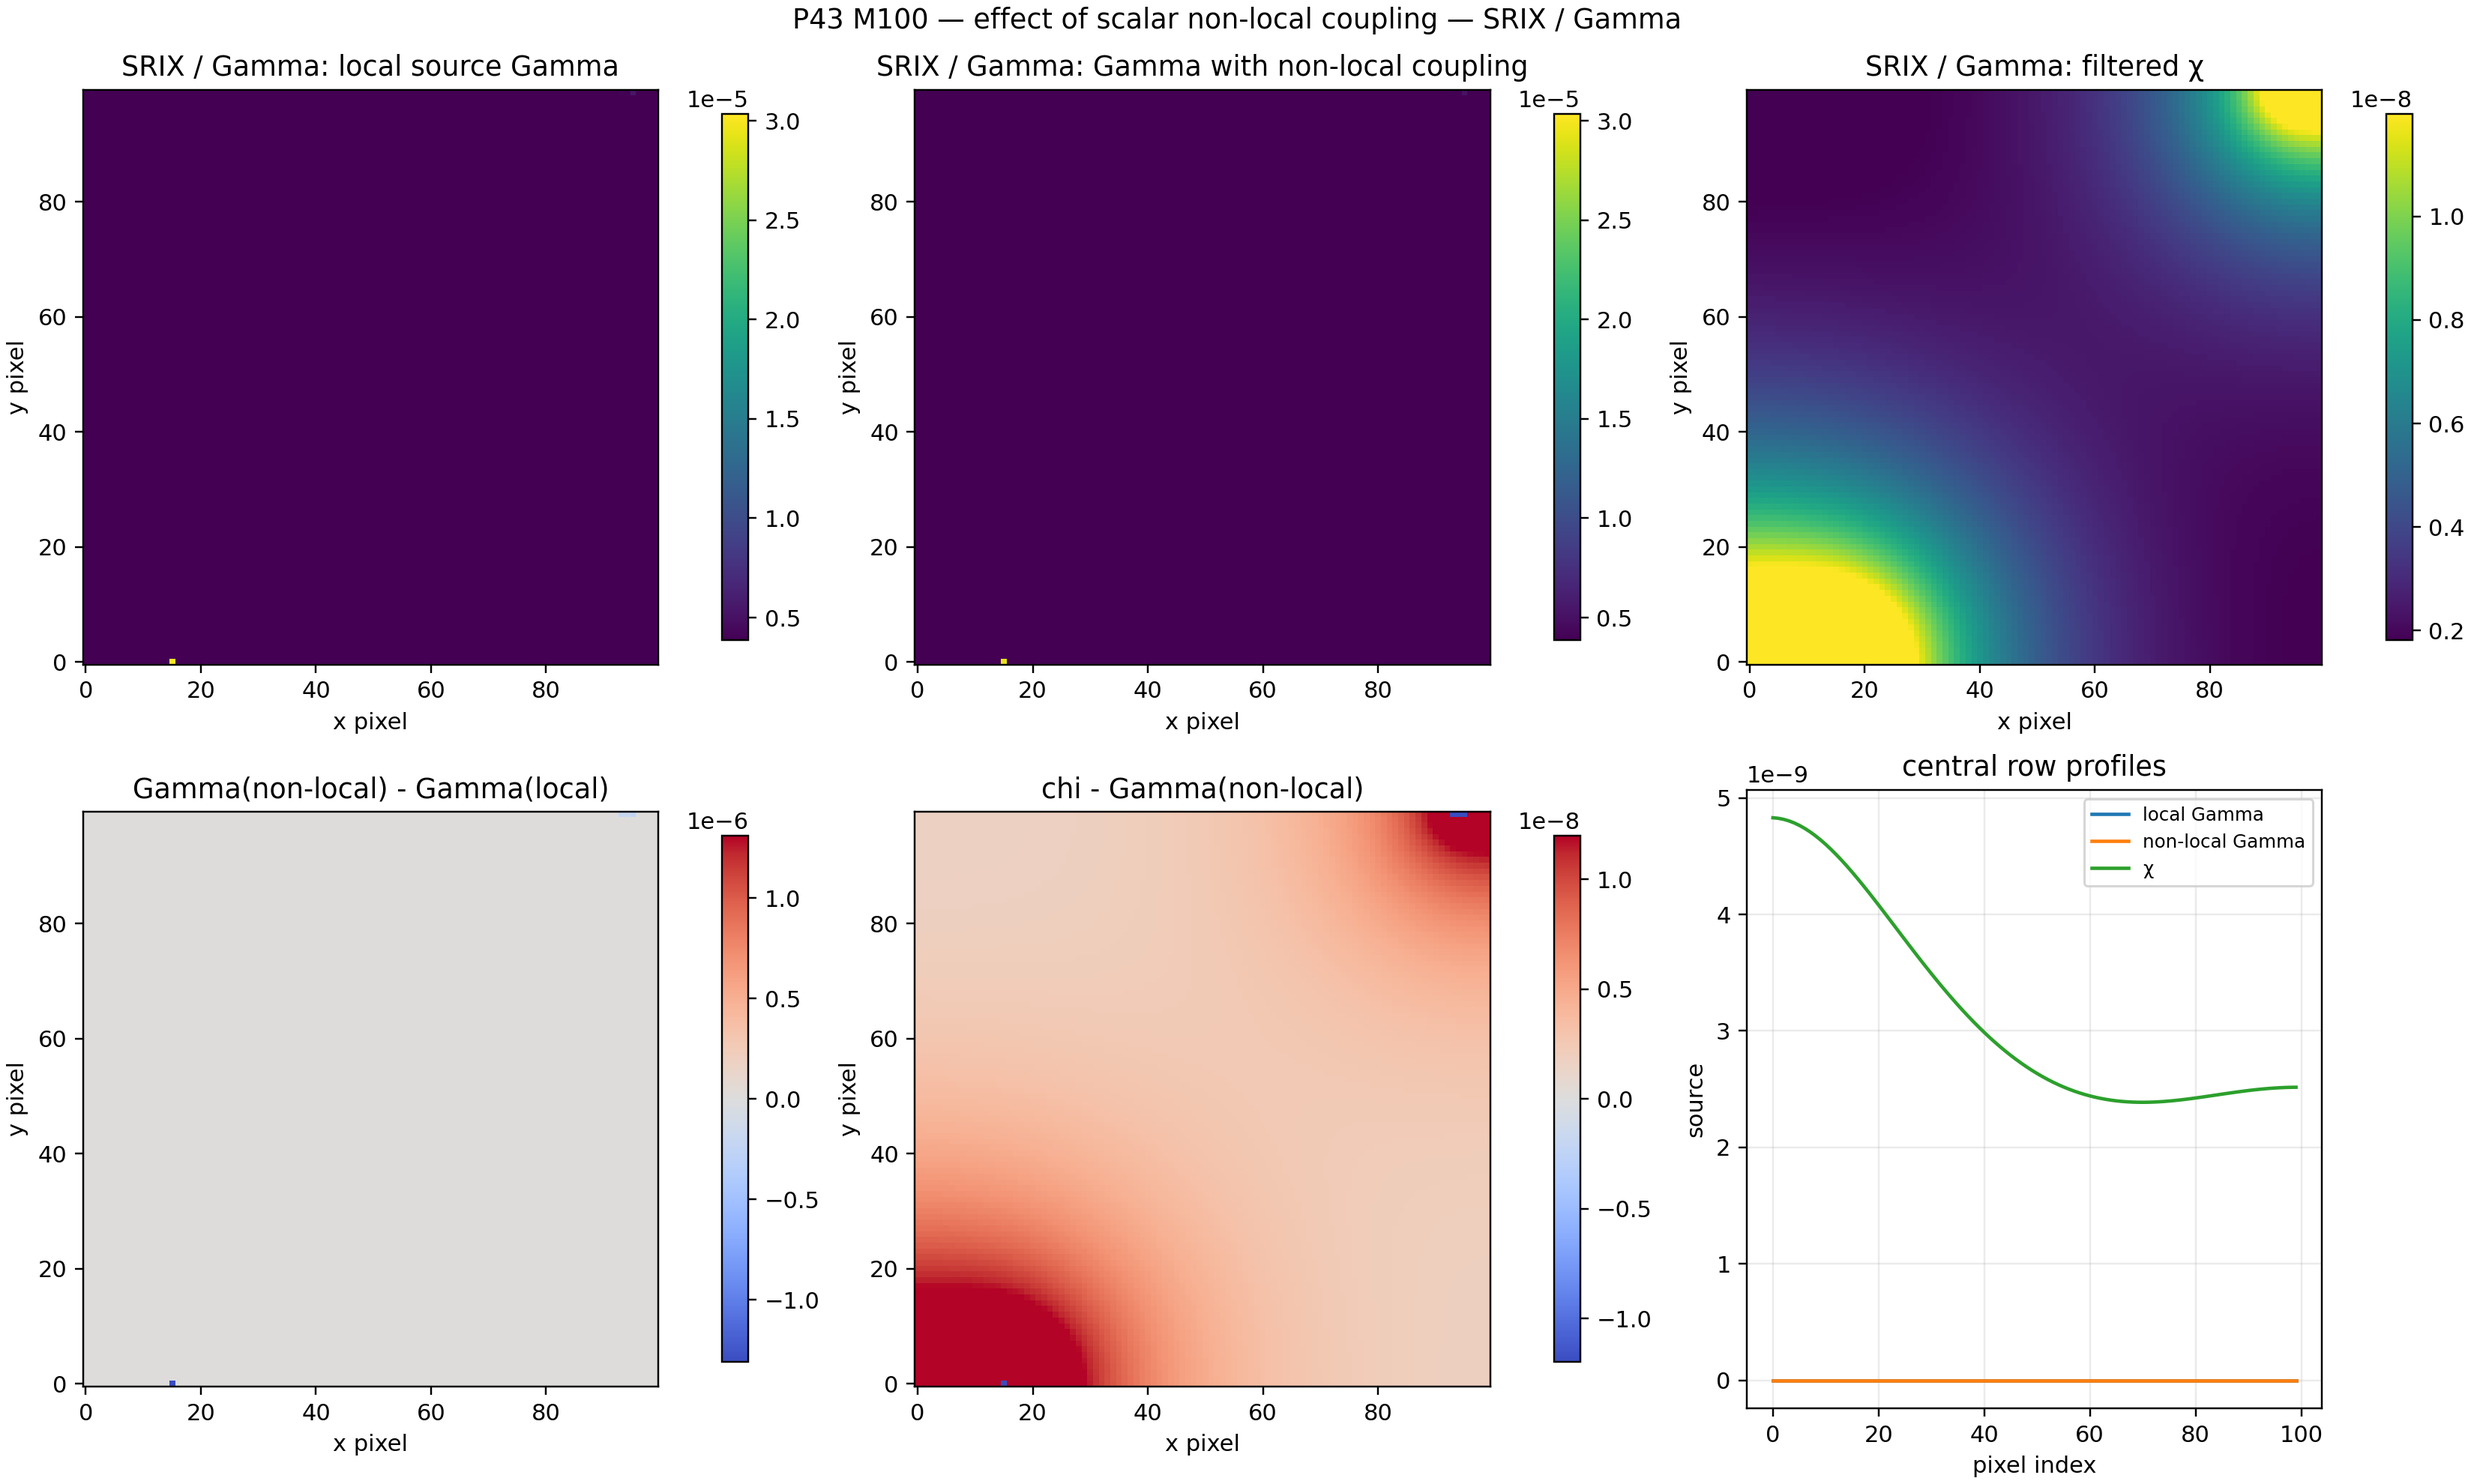
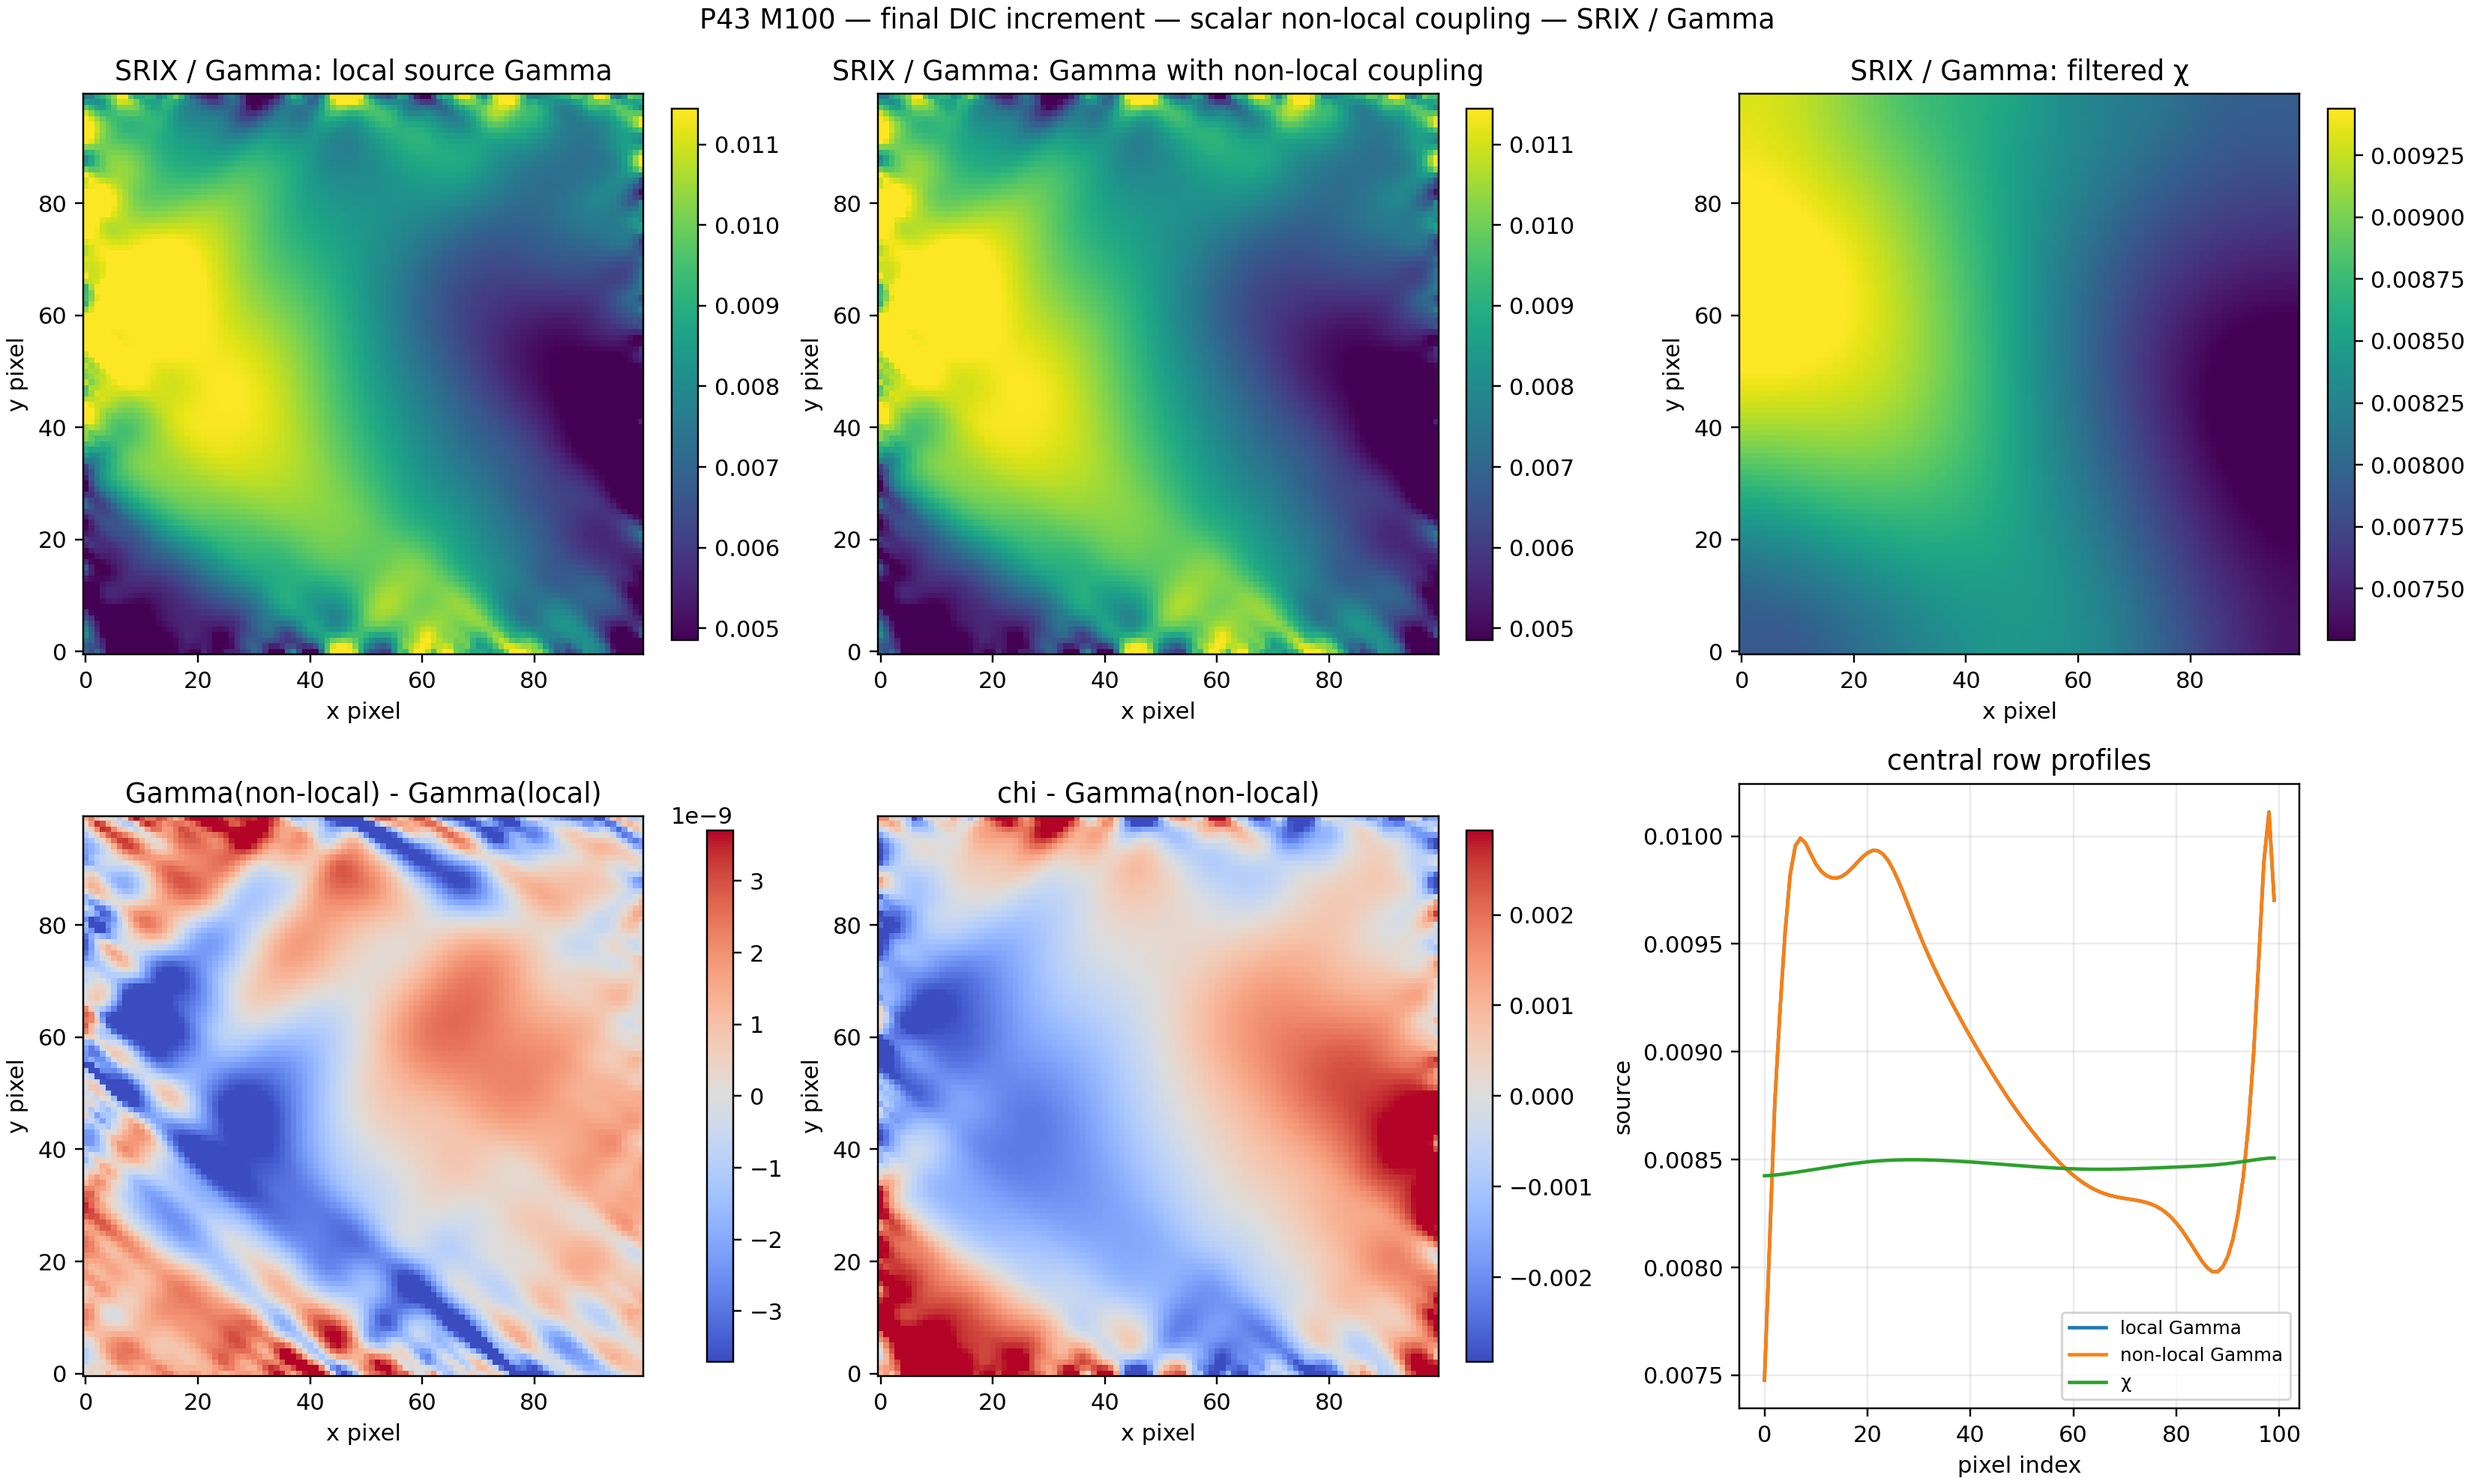
fix: plot final nonlocal P43 fields

diff --git a/scripts/plot_nonlocal_effects_p43.py b/scripts/plot_nonlocal_effects_p43.py
@@ -89,7 +89,9 @@ def _plot_one(
         axis.set_ylabel("y pixel")
         figure.colorbar(image, ax=axis, shrink=0.85)
 
-    figure.suptitle(f"P43 M100 — effect of scalar non-local coupling — {label}")
+    figure.suptitle(
+        f"P43 M100 — final DIC increment — scalar non-local coupling — {label}"
+    )
     figure.savefig(output, dpi=220)
     plt.close(figure)
     summary = {
@@ -101,6 +103,10 @@ def _plot_one(
         "chi_percentile_5": chi_limits[0],
         "chi_percentile_95": chi_limits[1],
         "source_name": source_name,
+        "source_active_fraction_local": float(np.count_nonzero(local > 1.0e-12) / local.size),
+        "source_active_fraction_nonlocal": float(
+            np.count_nonzero(coupled_source > 1.0e-12) / coupled_source.size
+        ),
         "source_delta_l2_relative": float(
             np.linalg.norm(source_delta) / max(np.linalg.norm(local), 1e-30)
         ),
